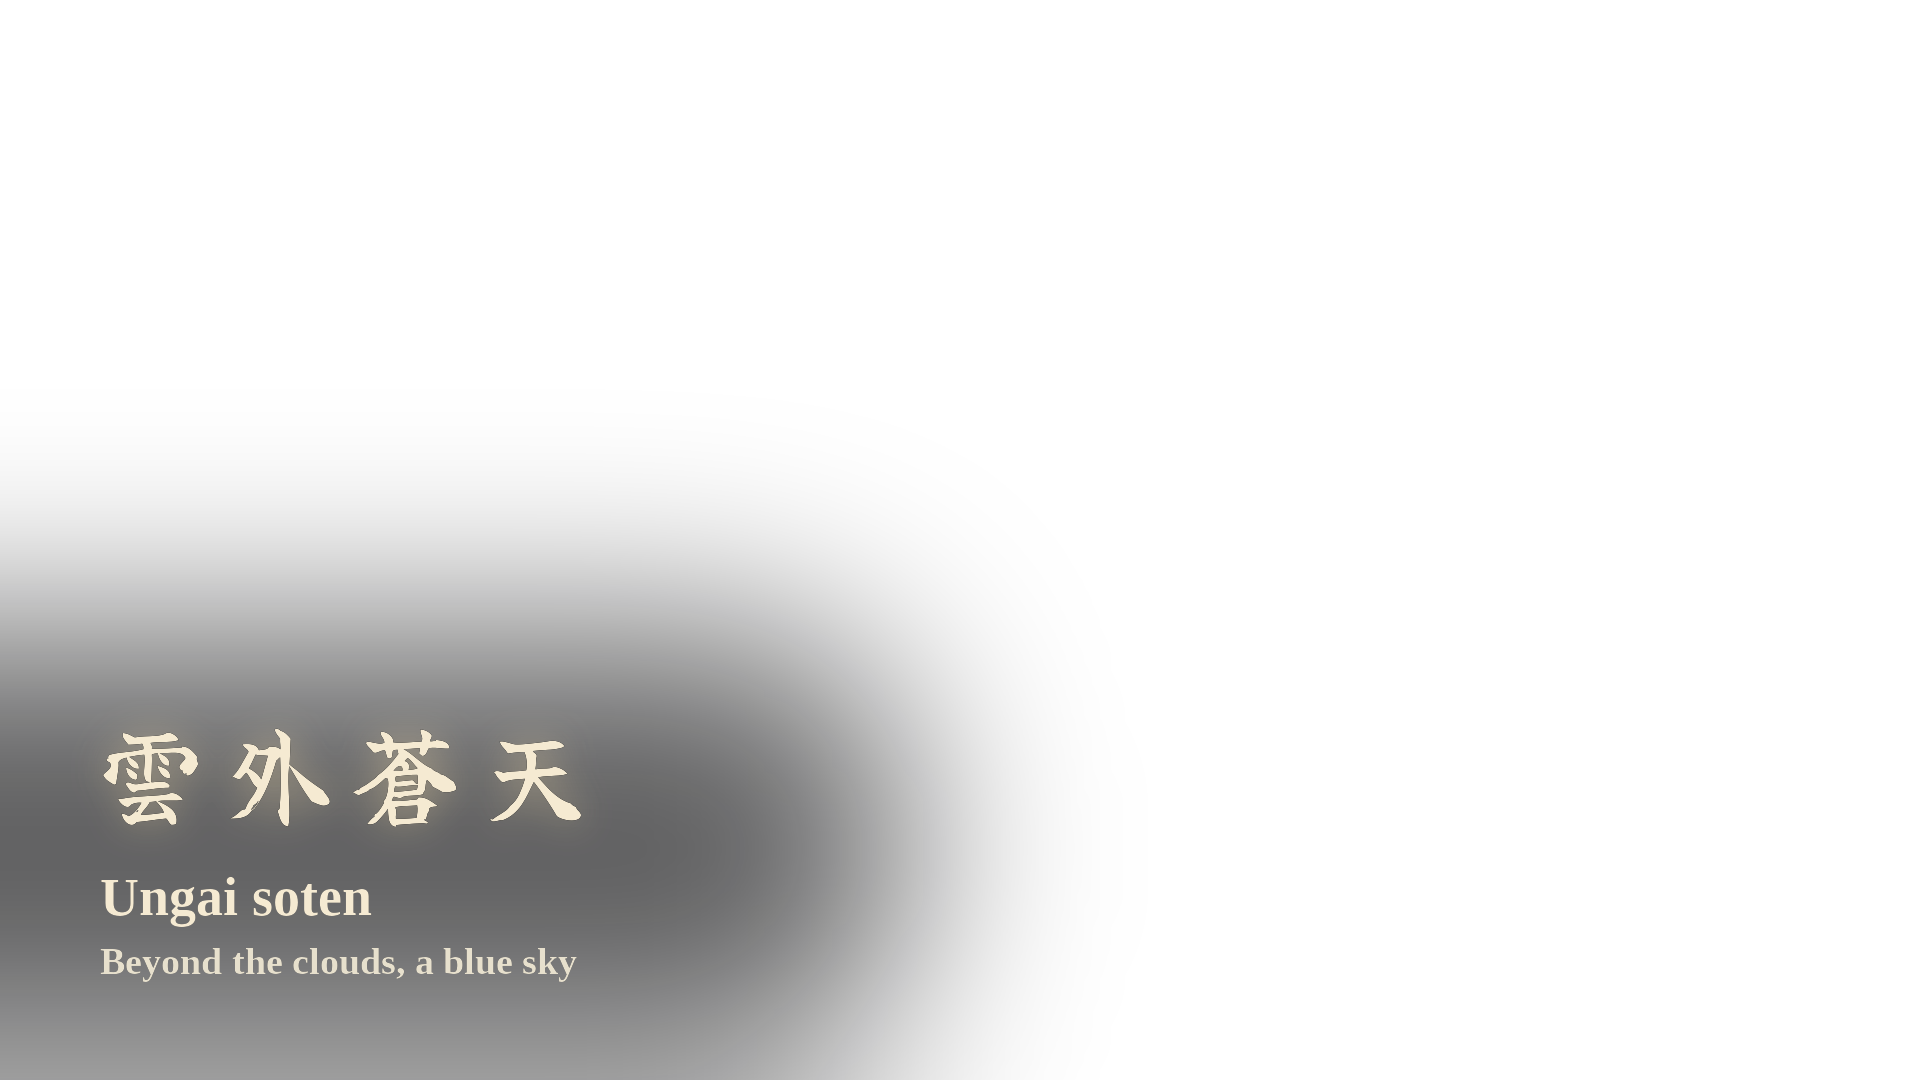
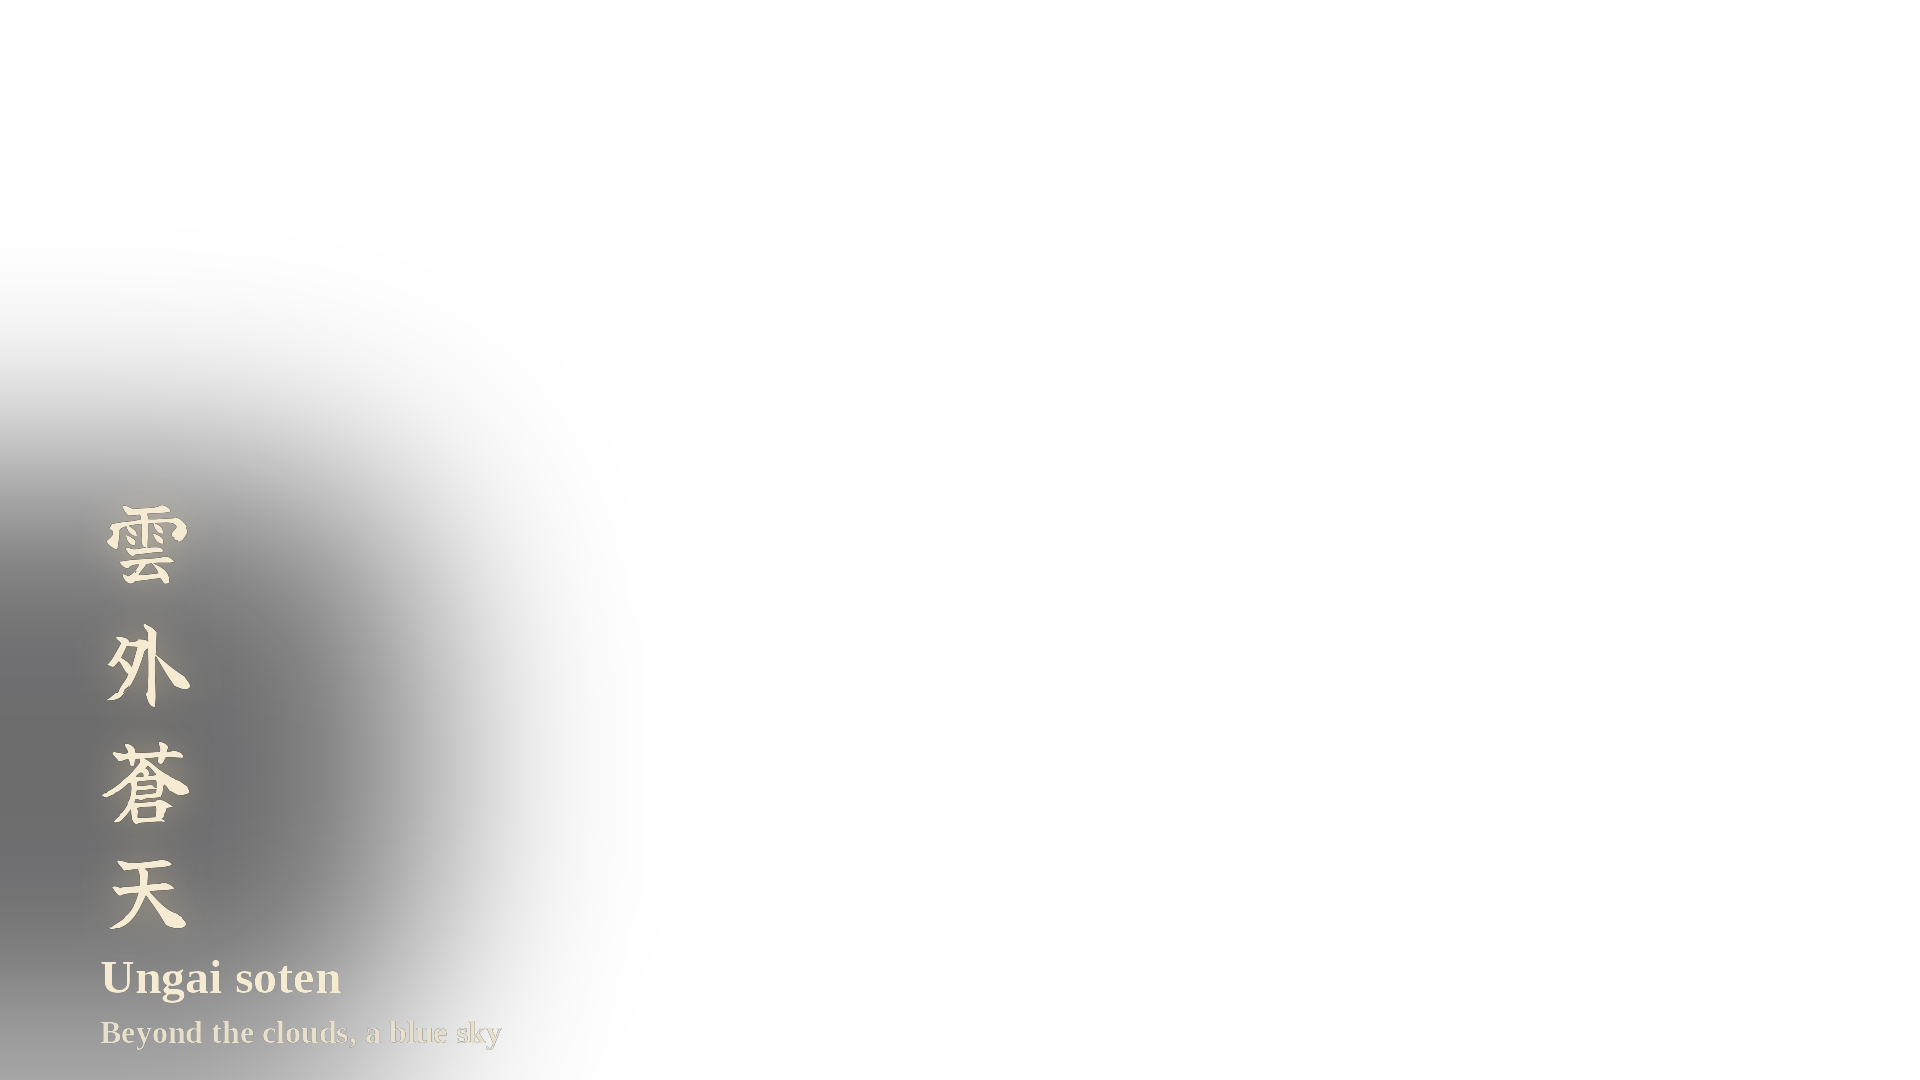
UNRYU: move wisdom kanji to vertical column, upper-left, right after the dragon's tail

Changed region(s): [[0.0, 0.3361, 0.5312, 1.0]]

diff --git a/stillwave/assets/unryu-wisdom-overlay.py b/stillwave/assets/unryu-wisdom-overlay.py
@@ -5,9 +5,11 @@
 雲龍 (cloud dragon): after difficulty, clarity. Overlay ≠ title concept (series
 rule, same logic as WA/ICHIGO).
 
-LEFT-lower over the dark foreground rock. In CapCut: TEXT layer on the top
-track, start 0:03, end 0:14, fade-in 2s / fade-out 2s, no glow/shadow/box.
-Cream #F5EAD2, Liberation Serif Bold (the locked channel font). 4 kanji."""
+VERTICAL kanji column, upper-left, positioned right where the dragon's left
+tail curl ends (open sky there) — user redirect 2026-08-26. Romaji/gloss sit
+below the column. In CapCut: TEXT layer on the top track, start 0:03, end
+0:14, fade-in 2s / fade-out 2s, no glow/shadow/box. Cream #F5EAD2, Liberation
+Serif Bold (the locked channel font). 4 kanji, stacked top-to-bottom."""
 from PIL import Image, ImageDraw, ImageFont, ImageFilter
 
 SRC = "/home/user/dan-documents/stillwave/assets/unryu-2h-source.jpg"
@@ -22,21 +24,19 @@ X = 96
 
 img = Image.new("RGBA", (W, H), (0, 0, 0, 0))
 
-# soft scrim so cream reads over the dark foreground rock in the lower-left
+# soft scrim behind the whole left column (kanji + romaji + gloss), upper-left
 s = Image.new("RGBA", (W, H), (0, 0, 0, 0))
-ImageDraw.Draw(s).rounded_rectangle((-200, 636, 900, 1060), radius=170, fill=(6, 6, 8, 165))
+ImageDraw.Draw(s).rounded_rectangle((-200, 470, 420, 1060), radius=170, fill=(6, 6, 8, 150))
 img.alpha_composite(s.filter(ImageFilter.GaussianBlur(100)))
 
-# 雲外蒼天 — brush kanji (4 chars), cream, faint warm glow
-f = ImageFont.truetype(KANJI, 108)
+# 雲外蒼天 — brush kanji, VERTICAL stack (top-to-bottom), cream, faint warm glow
+f = ImageFont.truetype(KANJI, 92)
 mask = Image.new("L", (W, H), 0)
 md = ImageDraw.Draw(mask)
-chars, pitch, y0 = ["雲", "外", "蒼", "天"], 128, 692
-l0, _, r0, _ = f.getbbox(chars[0])
-c0 = X + (r0 - l0) / 2
+chars, pitch, y0, cx = ["雲", "外", "蒼", "天"], 118, 505, X + 50
 for i, ch in enumerate(chars):
     l, t, r, b = f.getbbox(ch)
-    md.text((c0 + i * pitch - (l + (r - l) / 2), y0), ch, font=f, fill=255)
+    md.text((cx - (l + (r - l) / 2), y0 + i * pitch - t), ch, font=f, fill=255)
 glow = Image.new("RGBA", (W, H), (0, 0, 0, 0))
 glow.paste((250, 224, 166, 255), (0, 0),
            mask.filter(ImageFilter.GaussianBlur(18)).point(lambda p: int(p * 0.45)))
@@ -45,9 +45,9 @@ img.alpha_composite(Image.composite(Image.new("RGBA", (W, H), CREAM),
                                     Image.new("RGBA", (W, H), (0, 0, 0, 0)), mask))
 
 d = ImageDraw.Draw(img)
-d.text((X + 4, 866), "Ungai soten", font=ImageFont.truetype(SERIF, 54), fill=CREAM)
-d.text((X + 4, 940), "Beyond the clouds, a blue sky",
-       font=ImageFont.truetype(SERIF, 38), fill=SUB)
+d.text((X + 4, 950), "Ungai soten", font=ImageFont.truetype(SERIF, 48), fill=CREAM)
+d.text((X + 4, 1014), "Beyond the clouds, a blue sky",
+       font=ImageFont.truetype(SERIF, 32), fill=SUB)
 
 img.save(OUT)
 print("saved", OUT)
